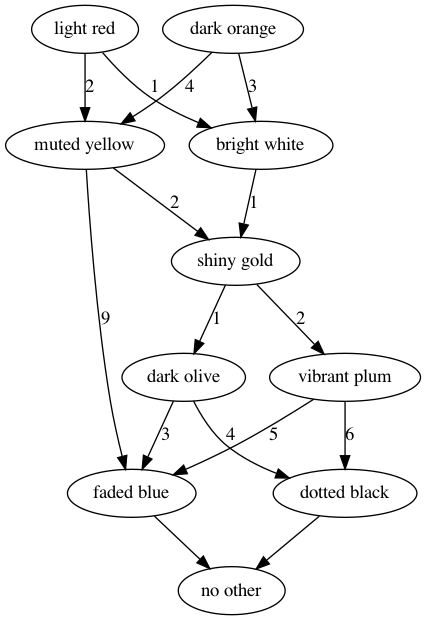
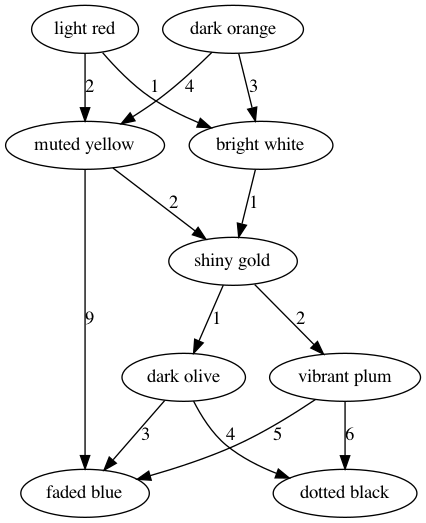
2020 day 7 part 2

Changed region(s): [[0.0, 0.0, 1.0, 1.0], [0.9765, 0.7036, 1.0, 0.7342], [0.0305, 0.9178, 0.061, 0.9484]]

diff --git a/2020/day07/day7.rb b/2020/day07/day7.rb
@@ -4,6 +4,7 @@ require 'pry'
 
 input = IO.read('./input').strip.split("\n")
 # input = IO.read('./input_small').strip.split("\n")
+# input = IO.read('./input_small2').strip.split("\n")
 
 Edge = Struct.new(:weight, :node)
 Bag = Struct.new(:num, :color)
@@ -86,6 +87,19 @@ class HandyHaversacks
 
   def is_shiny_gold_node?(node)
     node.color == SHINY_GOLD
+  end
+
+  def num_bags_inside_shiny_gold_node
+    shiny_gold_node = @nodes_by_color[SHINY_GOLD]
+
+    # Subtract 1 as we don't count the shiny gold bag itself
+    num_bags_in_node(shiny_gold_node) - 1
+  end
+
+  def num_bags_in_node(node)
+    1 + node.edges.sum do |edge|
+      edge.weight * num_bags_in_node(edge.node)
+    end
   end
 
   # Try using GraphViz to generate an image of our graph
@@ -175,7 +189,7 @@ input_rules = input.map { |rule| parse_rule(rule) }
 
 handy_haversacks = HandyHaversacks.new(input_rules)
 
-# handy_haversacks.generate_graph_image("graph.png")
+# handy_haversacks.generate_graph_image("graph_small.png")
 
 part1_reachable_nodes = handy_haversacks.shiny_gold_reachable_nodes
 
@@ -183,5 +197,5 @@ part1 = part1_reachable_nodes.size
 puts "Part 1: #{part1}" # 101
 
 
-part2 = 
-puts "Part 2: #{part2}"
+part2 = handy_haversacks.num_bags_inside_shiny_gold_node
+puts "Part 2: #{part2}" # 108636
